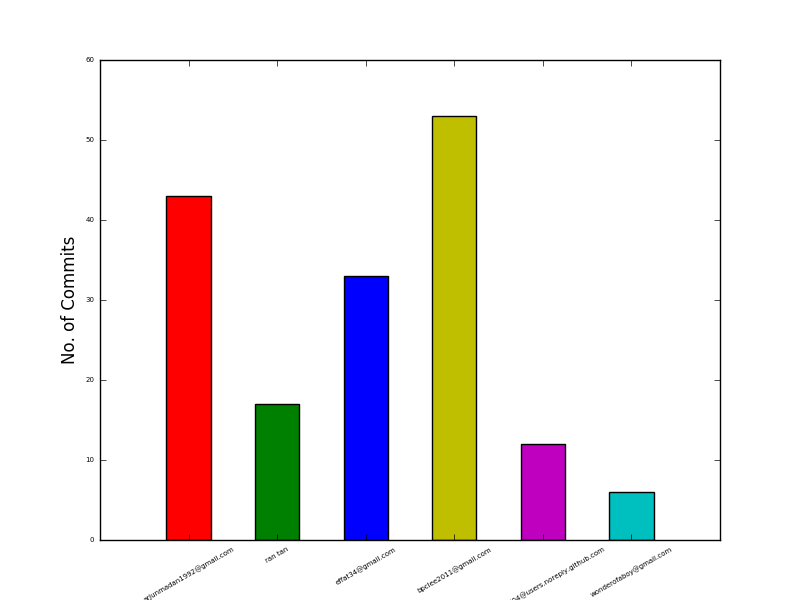
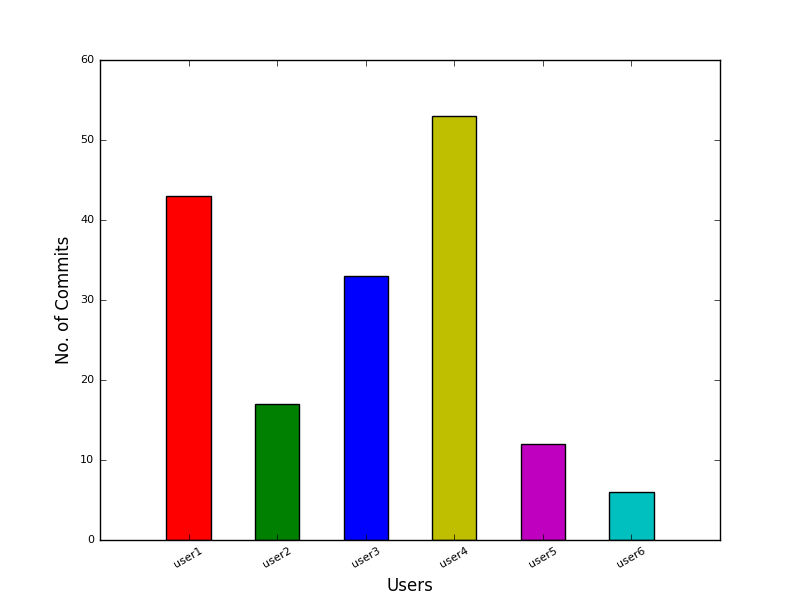
Committed the python files and graphs to make the users anonymous

diff --git a/issues/issue_creator_distribution.py b/issues/issue_creator_distribution.py
@@ -34,8 +34,8 @@ def plot_graph(creators,count,file_name):
   plt.xlabel('Users')
   locs, creators = plt.xticks()
   plt.setp(creators)
-  plt.tick_params(axis='both', which='minor', labelsize=6)
-  plt.tick_params(axis='both', which='major', labelsize=6)
+  plt.tick_params(axis='both', which='minor', labelsize=8)
+  plt.tick_params(axis='both', which='major', labelsize=8)
   plt.savefig(os.path.splitext(file_name)[0]+'_issue_creator_distribution'+'.png')
   plt.clf()
 
@@ -48,6 +48,12 @@ def get_issue_distribution(file_name):
      [number,title,description,state,creator,create_at,labels,milestonedue,last_update] = line
      creator_set.add(creator)
 
+  creator_list = []
+  
+  for i in range(len(creator_set)):
+    u = "user"+str(i+1)
+    creator_list.append(u)
+  
   dis = []
   for mm in creator_set:
      count = 0
@@ -57,9 +63,9 @@ def get_issue_distribution(file_name):
         if creator == mm:
           count += 1
      dis.append(count)
-  print(list(creator_set))
+  print(creator_list)
   print(dis)
-  plot_graph(list(creator_set), dis, file_name)
+  plot_graph(creator_list, dis, file_name)
   csvfile.close()
 
 get_issue_distribution('project1.csv')

diff --git a/commits/personal_commit_rate.py b/commits/personal_commit_rate.py
@@ -34,8 +34,8 @@ def plot_graph(creators,week,file_name):
   plt.xlabel('Users')
   locs, creators = plt.xticks()
   plt.setp(creators, rotation=30)
-  plt.tick_params(axis='both', which='minor', labelsize=5)
-  plt.tick_params(axis='both', which='major', labelsize=5)
+  plt.tick_params(axis='both', which='minor', labelsize=8)
+  plt.tick_params(axis='both', which='major', labelsize=8)
   plt.savefig(os.path.splitext(file_name)[0]+'_personal_commit_distribution'+'.png')
   plt.clf()
 
@@ -52,9 +52,13 @@ def get_commit_rate(file_name):
   for line in reader:
      [user,email,commit_at,message] = line
      names.add(email)
-  print (names)
-  name_list = list(names)
+  #print (names)
+  name_list = []#list(names)
   
+  for i in range(len(names)):
+    u = "user"+str(i+1)
+    name_list.append(u)
+
   personalCommit = []
   commit_count = []
   for member in names:
